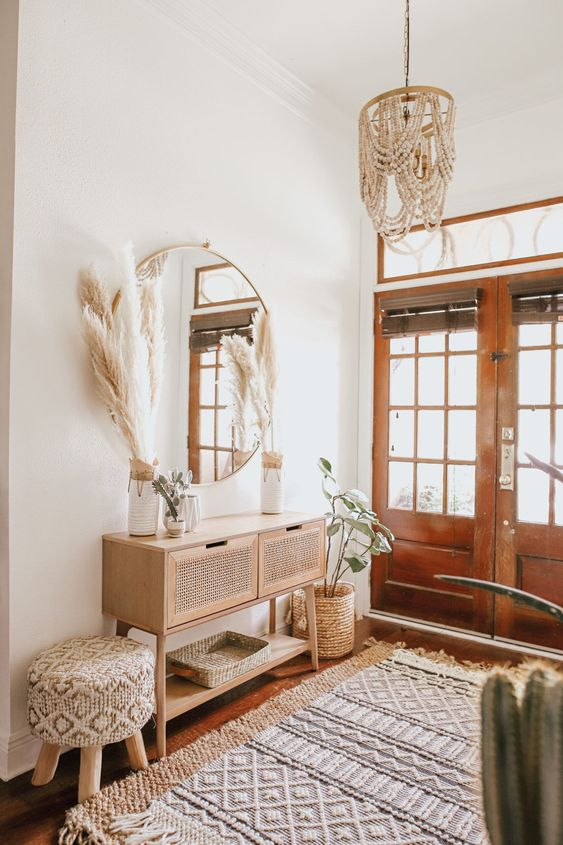
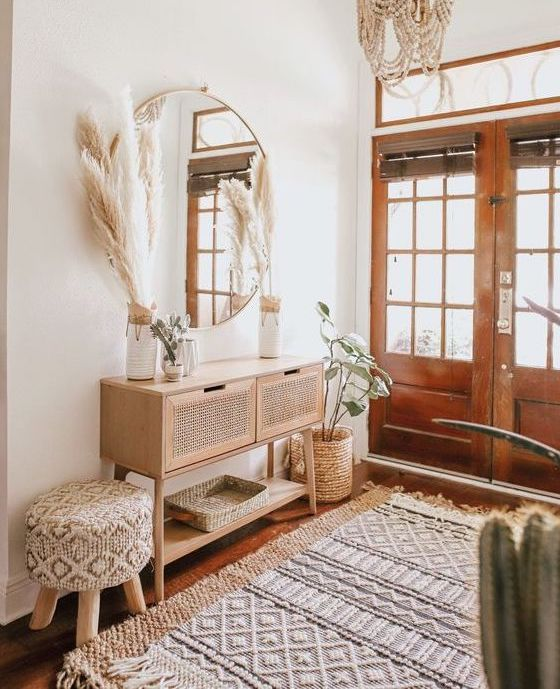
Changed home img, title positioning & font weight

diff --git a/src/scss/main.css b/src/scss/main.css
@@ -26,6 +26,10 @@ button {
   border: 0;
 }
 
+pre {
+  margin: 0;
+}
+
 footer {
   display: flex;
   flex-direction: column;
@@ -118,6 +122,10 @@ main {
 
 button {
   border: 0;
+}
+
+pre {
+  margin: 0;
 }
 
 footer {
@@ -259,20 +267,28 @@ pre {
   }
 }
 .home-section .home-section__introduction {
-  width: 75%;
-  margin-top: -12%;
-  padding: 10% 4%;
+  width: 80%;
+  margin-top: -45%;
+  padding: 15% 5%;
   background-color: var(--card-color);
   box-shadow: -5px -5px 10px rgba(46, 46, 46, 0.6);
   border-radius: 2px;
 }
 .home-section .home-section__title {
-  font-size: 2.3em;
-  line-height: 1.6;
+  font-weight: 100;
+  line-height: 1.3;
   text-align: center;
 }
+.home-section .home-section__title--first-line {
+  font-size: 11vw;
+}
+.home-section .home-section__title--scnd-line {
+  font-size: 8vw;
+}
+.home-section a {
+  margin-top: -6%;
+}
 .home-section .home-section__button {
-  margin-top: 5%;
   padding: 4%;
   background-color: var(--primary-color);
   border-radius: 2px;
@@ -315,6 +331,10 @@ main {
 
 button {
   border: 0;
+}
+
+pre {
+  margin: 0;
 }
 
 footer {
@@ -445,6 +465,10 @@ button {
   border: 0;
 }
 
+pre {
+  margin: 0;
+}
+
 footer {
   display: flex;
   flex-direction: column;
@@ -532,6 +556,7 @@ pre {
   justify-content: center;
   align-items: center;
   text-align: center;
+  padding-bottom: 80px;
 }
 .services-section .card {
   width: 300px;
@@ -603,6 +628,10 @@ main {
 
 button {
   border: 0;
+}
+
+pre {
+  margin: 0;
 }
 
 footer {
@@ -720,6 +749,10 @@ main {
 
 button {
   border: 0;
+}
+
+pre {
+  margin: 0;
 }
 
 footer {
@@ -850,6 +883,10 @@ button {
   border: 0;
 }
 
+pre {
+  margin: 0;
+}
+
 footer {
   display: flex;
   flex-direction: column;
@@ -928,7 +965,7 @@ header .navbar {
   box-shadow: 0 2px 7px rgba(61, 61, 61, 0.4);
 }
 header .navbar__logo {
-  width: 130px;
+  width: 85px;
   height: 100%;
 }
 header .navbar__down-arrow {
@@ -940,7 +977,6 @@ header .navbar__down-arrow {
 }
 header .navbar__down-arrow svg {
   transition: translate 500ms ease-in-out;
-  margin-top: 6%;
 }
 header .navbar__down-arrow:hover {
   cursor: pointer;

diff --git a/src/scss/layout/_home.scss b/src/scss/layout/_home.scss
@@ -18,22 +18,33 @@
     }
 
     .home-section__introduction {
-        width: 75%;
-        margin-top: -12%;
-        padding: 10% 4%;
+        width: 80%;
+        margin-top: -45%;
+        padding: 15% 5%;
         background-color: var(--card-color);
         box-shadow: -5px -5px 10px rgba($color: #2e2e2e, $alpha: 0.6);
         border-radius: 2px;
     }
 
     .home-section__title {
-        font-size: 2.3em;
-        line-height: 1.6;
+        font-weight: 100;
+        line-height: 1.3;
         text-align: center;
     }
 
+    .home-section__title--first-line {
+        font-size: 11vw;
+    }
+
+    .home-section__title--scnd-line {
+        font-size: 8vw;
+    }
+
+    a {
+        margin-top: -6%;
+    }
+
     .home-section__button {
-        margin-top: 5%;
         padding: 4%;
         background-color: var(--primary-color);
         border-radius: 2px;

diff --git a/src/index.html b/src/index.html
@@ -62,12 +62,17 @@
             <div class="home-section">
                 <img
                     class="home-section__img"
-                    src="./assets/home.jpeg"
+                    src="./assets/homeimg.jpeg"
                     alt="Couch With Ottomon And Mirror Next To Lamp"
                 />
                 <div class="home-section__introduction">
                     <h1 class="home-section__title">
-                        Interior Design, unique to you.
+                        <pre class="home-section__title--first-line">
+Interior Design,</pre
+                        >
+                        <pre class="home-section__title--scnd-line">
+unique to you.</pre
+                        >
                     </h1>
                 </div>
                 <a>

diff --git a/src/scss/main.scss b/src/scss/main.scss
@@ -14,7 +14,7 @@ header {
         box-shadow: 0 2px 7px rgba(61, 61, 61, 0.4);
 
         &__logo {
-            width: 130px;
+            width: 85px;
             height: 100%;
         }
 
@@ -27,7 +27,6 @@ header {
 
             svg {
                 transition: translate 500ms ease-in-out;
-                margin-top: 6%;
             }
         }
 

diff --git a/src/scss/layout/_services.scss b/src/scss/layout/_services.scss
@@ -11,6 +11,7 @@
     .services-section__content {
         @include flexCenter;
         text-align: center;
+        padding-bottom: 80px;
     }
 
     .card {

diff --git a/src/scss/globals/_boilerplate.scss b/src/scss/globals/_boilerplate.scss
@@ -48,6 +48,10 @@ button {
     border: 0;
 }
 
+pre {
+    margin: 0;
+}
+
 footer {
     @include flexCenter;
     background-color: var(--primary-color);
